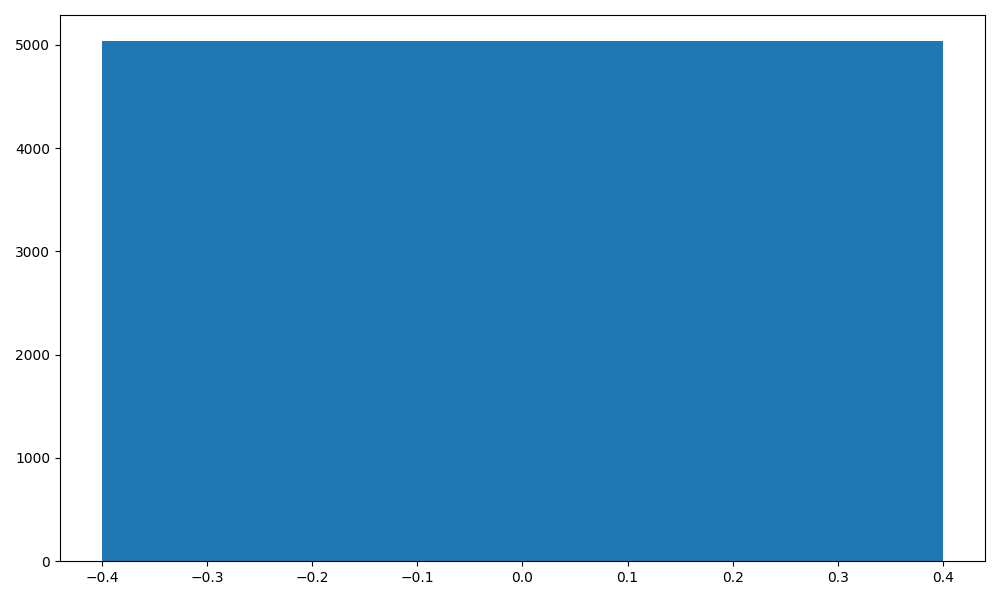
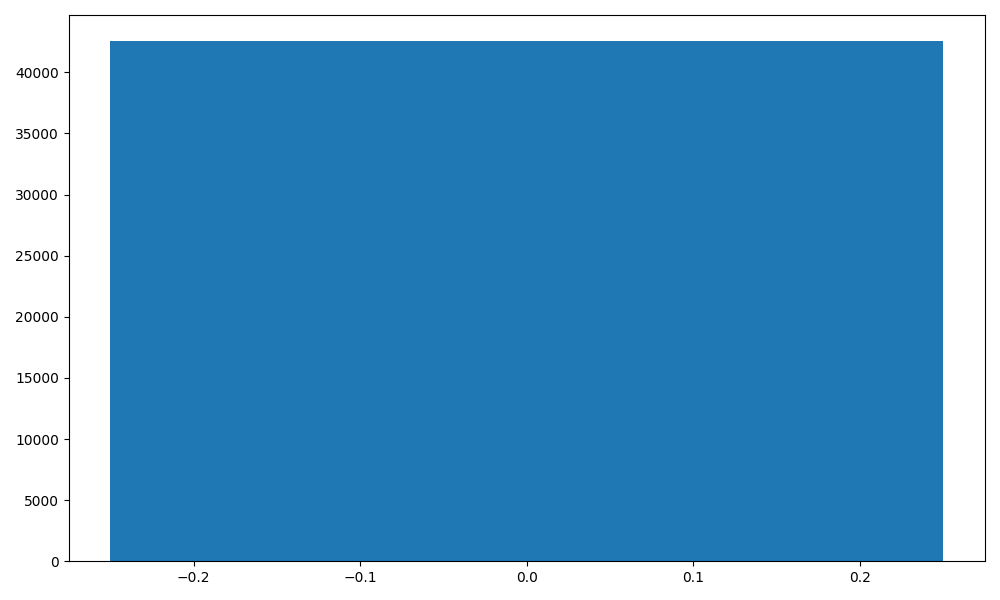
added generate_mesh function

diff --git a/codes/linear.py b/codes/linear.py
@@ -73,7 +73,7 @@ def plot_histogram(output_dict: Dict, plot_path : Path = "./histogram.png", bins
             raise ValueError(f"output_dict values expected to be of type int or List[int], fot {type(freq)} instead")
     plot_curve(plot_path=plot_path, plot_function=plt.hist, **{"x": x, "bins": bins})
     
-    
+# TODO: debug rectangular output
 def plot_barchart(output_dict: Dict, plot_path : Path = "./barchart.png") -> None:
     x = list(output_dict.keys())
     type_check = next(iter(output_dict.values()))
@@ -83,7 +83,7 @@ def plot_barchart(output_dict: Dict, plot_path : Path = "./barchart.png") -> Non
         y = list(output_dict.values())
     else:
         raise ValueError(f"output_dict values expected to be of type int or List[int], fot {type(type_check)} instead")
-    plot_curve(plot_path=plot_path, plot_function=plt.bar, **{"x": x, "height": y})
+    plot_curve(plot_path=plot_path, plot_function=plt.bar, **{"x": x, "height": y, "width": 0.5})
    
     
 def adversarial_attack_on_hyperplane(d: int, normal_vector: torch.tensor, input_tensor: torch.tensor, attack_vector: torch.tensor, bias: float = 0, epsilon: float = 1e-12) -> float:
@@ -128,24 +128,39 @@ def merge_output_histogram(d: int, normal_vector: torch.tensor, input_tensors: L
                 merged_dict[value] = len(freq_list)
     return merged_dict
 
+def generate_mesh(d: int, min: float, max: float, N: int) -> torch.tensor:
+    grid = [torch.linspace(min, max, steps=N) for _ in range(d)]   
+    mesh = torch.stack(torch.meshgrid(*grid), dim=-1).view(-1, 2)
+    return mesh
+
 if __name__ == "__main__":
     
     # Example usage:
     d = 1000
     normal_vector = create_normal_vector(d)
-    input_tensor = [torch.tensor([1.0 + test/1e6] * d) / d for test in range(100)]
+    input_tensor = [torch.tensor([1.0 + test/1e6] * d) / d for test in range(1_000)]
     # input_tensor = input_tensor[:1]
     # input_tensor[-1] = input_tensor[-1] - torch.tensor([-1.6e-12])
 
     # output_dict = generate_output_histogram(d, normal_vector, input_tensor[0])
     # plot_histogram(output_dict)
     # plot_barchart(output_dict)
-    plot_adversarial_attack(d, normal_vector, input_tensor, normal_vector)
+    # plot_adversarial_attack(d, normal_vector, input_tensor, normal_vector)
     output_dict = merge_output_histogram(d, normal_vector, input_tensor)
     plot_histogram(output_dict)
     plot_barchart(output_dict)
     print(min(output_dict.keys()), max(output_dict.keys()))
 
+    # # Example usage for a 4D grid
+    # dimensions = 2
+    # start = -10
+    # end = 10
+    # num_points = 20
+
+    # result = generate_mesh(dimensions, start, end, num_points)
+    # print(result.size())
+    # for tensor in result:
+    #     print(tensor)
     
 
 # epsilon = 1e-12
